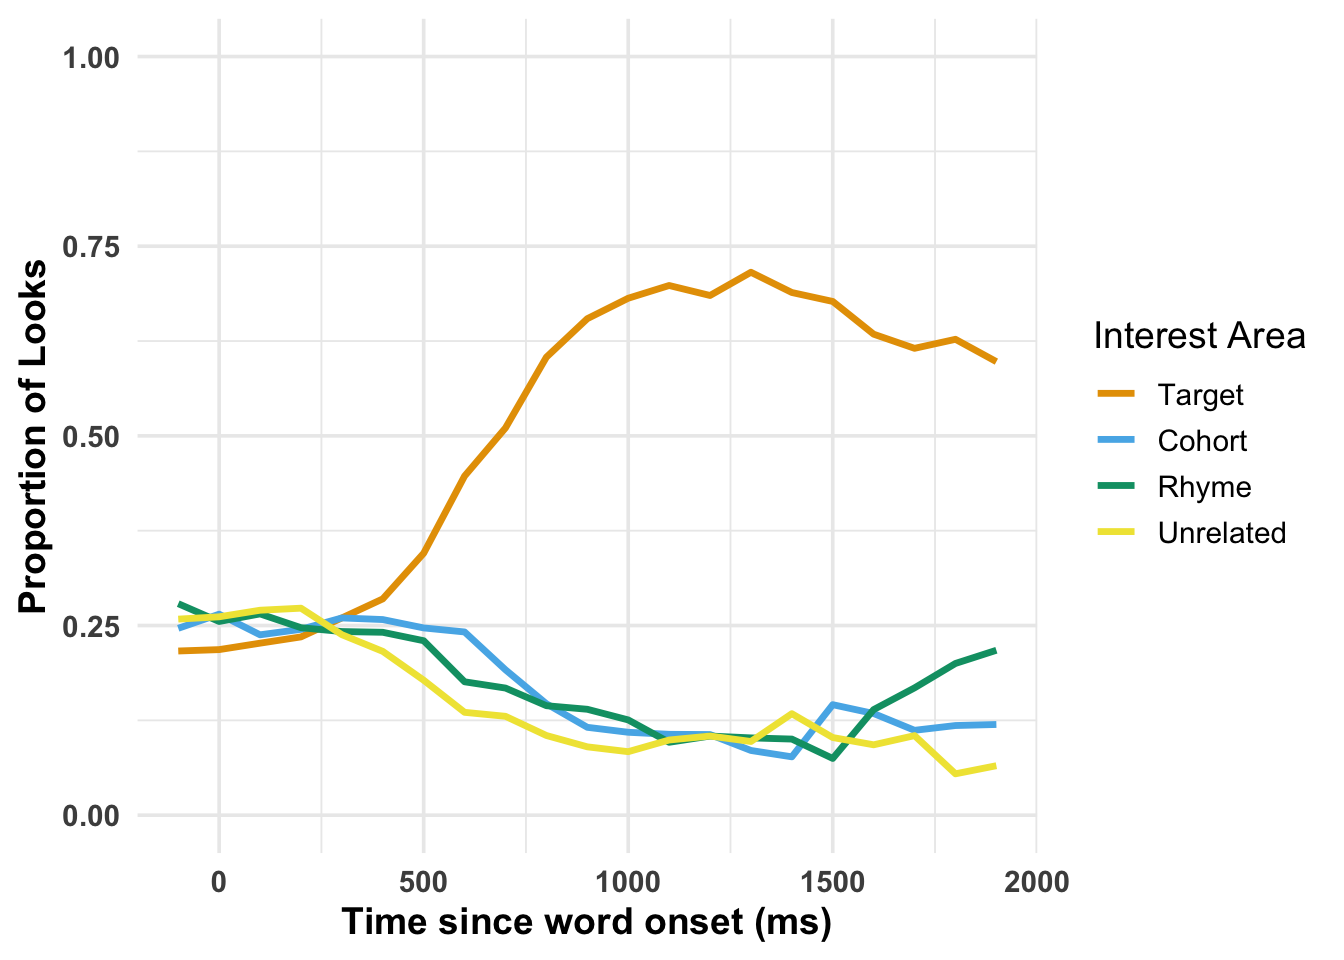
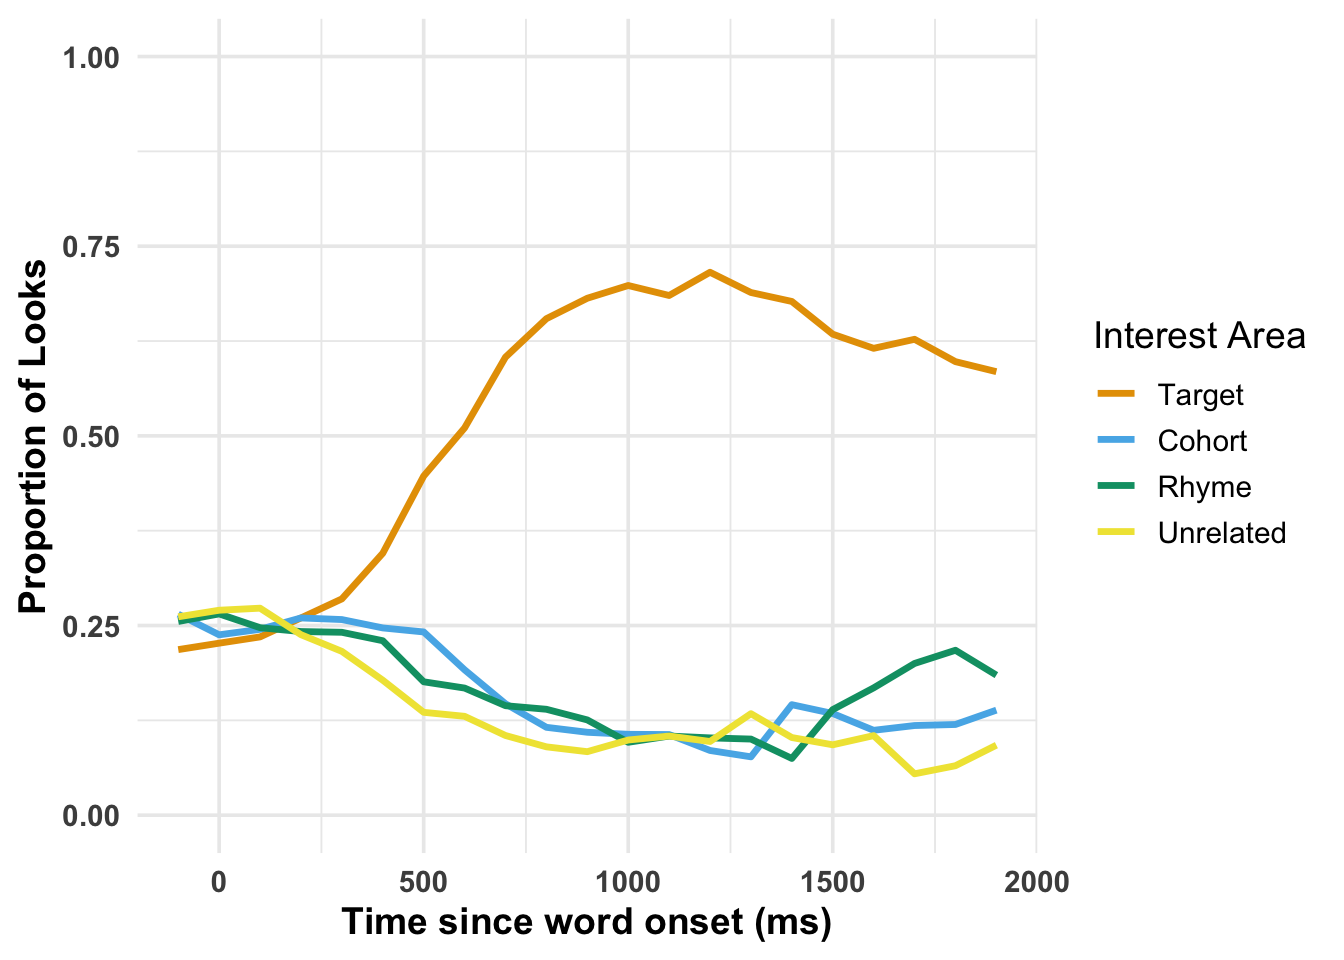
update vignette

Changed region(s): [[0.125, 0.2812, 0.75, 0.8125]]

diff --git a/docs/articles/webgazeR_vignette.html b/docs/articles/webgazeR_vignette.html
@@ -95,7 +95,7 @@
 <div class="cell-output cell-output-stdout">
 <pre><code>
 ── R CMD build ─────────────────────────────────────────────────────────────────
-* checking for file ‘/private/var/folders/b6/cndg9nj53jnfy45qtx6h533r0000gs/T/RtmpNNQGxJ/remotesfa23576f1e06/jgeller112-webgazeR-e226b07/DESCRIPTION’ ... OK
+* checking for file ‘/private/var/folders/b6/cndg9nj53jnfy45qtx6h533r0000gs/T/Rtmp4qiuZl/remotesfc251c656911/jgeller112-webgazeR-a1a1bb2/DESCRIPTION’ ... OK
 * preparing ‘webgazeR’:
 * checking DESCRIPTION meta-information ... OK
 * checking for LF line-endings in source and make files and shell scripts
@@ -665,8 +665,8 @@ Y: 2.75%</code></pre>
 
     <script>
 
-      function styleCell_hxguc1mj5v8z5sm3eym6(i, j, css_id) {
-          var table = document.getElementById("tinytable_hxguc1mj5v8z5sm3eym6");
+      function styleCell_o9oyqxhkhawl0vrqgxcf(i, j, css_id) {
+          var table = document.getElementById("tinytable_o9oyqxhkhawl0vrqgxcf");
           var cell = table.rows[i]?.cells[j];  // Safe navigation to avoid errors
           if (cell) {
               console.log(`Styling cell at (${i}, ${j}) with class ${css_id}`);
@@ -676,7 +676,7 @@ Y: 2.75%</code></pre>
           }
       }
       function insertSpanRow(i, colspan, content) {
-        var table = document.getElementById('tinytable_hxguc1mj5v8z5sm3eym6');
+        var table = document.getElementById('tinytable_o9oyqxhkhawl0vrqgxcf');
         var newRow = table.insertRow(i);
         var newCell = newRow.insertCell(0);
         newCell.setAttribute("colspan", colspan);
@@ -684,8 +684,8 @@ Y: 2.75%</code></pre>
         // this may be unsafe, but innerText does not interpret <br>
         newCell.innerHTML = content;
       }
-      function spanCell_hxguc1mj5v8z5sm3eym6(i, j, rowspan, colspan) {
-        var table = document.getElementById("tinytable_hxguc1mj5v8z5sm3eym6");
+      function spanCell_o9oyqxhkhawl0vrqgxcf(i, j, rowspan, colspan) {
+        var table = document.getElementById("tinytable_o9oyqxhkhawl0vrqgxcf");
         const targetRow = table.rows[i];
         const targetCell = targetRow.cells[j];
         for (let r = 0; r < rowspan; r++) {
@@ -715,24 +715,24 @@ Y: 2.75%</code></pre>
       window.addEventListener('load', function () {
           var cellsToStyle = [
             // tinytable style arrays after
-          { positions: [ { i: 23, j: 0 }, { i: 23, j: 1 }, { i: 23, j: 2 }, { i: 23, j: 3 }, { i: 23, j: 4 }, { i: 23, j: 5 }, { i: 23, j: 6 }, { i: 23, j: 7 },  ], css_id: 'tinytable_css_u843ks73rb2aqbb12ahd',},
-          { positions: [ { i: 0, j: 0 }, { i: 0, j: 1 }, { i: 0, j: 2 }, { i: 0, j: 3 }, { i: 0, j: 4 }, { i: 0, j: 5 }, { i: 0, j: 6 }, { i: 0, j: 7 },  ], css_id: 'tinytable_css_evfqxm4dk7hbx3lhx6fc',},
+          { positions: [ { i: 23, j: 0 }, { i: 23, j: 1 }, { i: 23, j: 2 }, { i: 23, j: 3 }, { i: 23, j: 4 }, { i: 23, j: 5 }, { i: 23, j: 6 }, { i: 23, j: 7 },  ], css_id: 'tinytable_css_vscp7bradl2ymf34kgfj',},
+          { positions: [ { i: 0, j: 0 }, { i: 0, j: 1 }, { i: 0, j: 2 }, { i: 0, j: 3 }, { i: 0, j: 4 }, { i: 0, j: 5 }, { i: 0, j: 6 }, { i: 0, j: 7 },  ], css_id: 'tinytable_css_4glqbr4juvcvcczxfd5w',},
           ];
 
           // Loop over the arrays to style the cells
           cellsToStyle.forEach(function (group) {
               group.positions.forEach(function (cell) {
-                  styleCell_hxguc1mj5v8z5sm3eym6(cell.i, cell.j, group.css_id);
+                  styleCell_o9oyqxhkhawl0vrqgxcf(cell.i, cell.j, group.css_id);
               });
           });
       });
     </script><style>
       /* tinytable css entries after */
-      .table td.tinytable_css_u843ks73rb2aqbb12ahd, .table th.tinytable_css_u843ks73rb2aqbb12ahd { border-bottom: solid #d3d8dc 0.1em; }
-      .table td.tinytable_css_evfqxm4dk7hbx3lhx6fc, .table th.tinytable_css_evfqxm4dk7hbx3lhx6fc { border-top: solid #d3d8dc 0.1em; border-bottom: solid #d3d8dc 0.05em; }
+      .table td.tinytable_css_vscp7bradl2ymf34kgfj, .table th.tinytable_css_vscp7bradl2ymf34kgfj { border-bottom: solid #d3d8dc 0.1em; }
+      .table td.tinytable_css_4glqbr4juvcvcczxfd5w, .table th.tinytable_css_4glqbr4juvcvcczxfd5w { border-top: solid #d3d8dc 0.1em; border-bottom: solid #d3d8dc 0.05em; }
     </style>
 <div class="container">
-      <table class="table table table-borderless" id="tinytable_hxguc1mj5v8z5sm3eym6" style="width: auto; margin-left: auto; margin-right: auto;" data-quarto-disable-processing="true">
+      <table class="table table table-borderless" id="tinytable_o9oyqxhkhawl0vrqgxcf" style="width: auto; margin-left: auto; margin-right: auto;" data-quarto-disable-processing="true">
 <thead><tr>
 <th scope="col">subject</th>
                 <th scope="col">total_points</th>
@@ -2710,7 +2710,7 @@ Y: 2.75%</code></pre>
 <div class="sourceCode cell-code" id="cb32"><pre class="downlit sourceCode r">
 <code class="sourceCode R"><span><span class="va">gaze_sub</span> <span class="op">&lt;-</span><span class="va">dat_long_aoi_me_TCRU</span><span class="op"><a href="https://magrittr.tidyverse.org/reference/pipe.html" class="external-link">%&gt;%</a></span> </span>
 <span><span class="fu"><a href="https://dplyr.tidyverse.org/reference/group_by.html" class="external-link">group_by</a></span><span class="op">(</span><span class="va">subject</span>, <span class="va">trial</span><span class="op">)</span> <span class="op"><a href="https://magrittr.tidyverse.org/reference/pipe.html" class="external-link">%&gt;%</a></span></span>
-<span>  <span class="fu"><a href="https://dplyr.tidyverse.org/reference/mutate.html" class="external-link">mutate</a></span><span class="op">(</span>time <span class="op">=</span> <span class="op">(</span><span class="va">time</span><span class="op">-</span><span class="va">RT_audio</span><span class="op">)</span><span class="op">-</span><span class="fl">200</span><span class="op">)</span> <span class="op"><a href="https://magrittr.tidyverse.org/reference/pipe.html" class="external-link">%&gt;%</a></span> <span class="co"># subtract audio rt onset for each</span></span>
+<span>  <span class="fu"><a href="https://dplyr.tidyverse.org/reference/mutate.html" class="external-link">mutate</a></span><span class="op">(</span>time <span class="op">=</span> <span class="op">(</span><span class="va">time</span><span class="op">-</span><span class="va">RT_audio</span><span class="op">)</span><span class="op">-</span><span class="fl">300</span><span class="op">)</span> <span class="op"><a href="https://magrittr.tidyverse.org/reference/pipe.html" class="external-link">%&gt;%</a></span> <span class="co"># subtract audio rt onset for each</span></span>
 <span> <span class="fu"><a href="https://dplyr.tidyverse.org/reference/filter.html" class="external-link">filter</a></span><span class="op">(</span><span class="va">time</span> <span class="op">&gt;=</span> <span class="op">-</span><span class="fl">100</span>, <span class="va">time</span> <span class="op">&lt;</span> <span class="fl">2000</span><span class="op">)</span> <span class="op"><a href="https://magrittr.tidyverse.org/reference/pipe.html" class="external-link">%&gt;%</a></span> <span class="co"># start -100 to 2000 ms </span></span>
 <span>   <span class="fu">dplyr</span><span class="fu">::</span><span class="fu"><a href="https://dplyr.tidyverse.org/reference/filter.html" class="external-link">filter</a></span><span class="op">(</span><span class="va">x_pred_normalised</span> <span class="op">&gt;</span> <span class="fl">0</span>,</span>
 <span>                <span class="va">x_pred_normalised</span> <span class="op">&lt;</span> <span class="fl">1</span>,</span>
@@ -2909,7 +2909,7 @@ Y: 2.75%</code></pre>
 <div class="sourceCode cell-code" id="cb42"><pre class="downlit sourceCode r">
 <code class="sourceCode R"><span><span class="va">gaze_sub</span> <span class="op">&lt;-</span><span class="va">dat_long_aoi_me_TCRU</span> <span class="op"><a href="https://magrittr.tidyverse.org/reference/pipe.html" class="external-link">%&gt;%</a></span> </span>
 <span><span class="fu"><a href="https://dplyr.tidyverse.org/reference/group_by.html" class="external-link">group_by</a></span><span class="op">(</span><span class="va">subject</span>, <span class="va">trial</span><span class="op">)</span> <span class="op"><a href="https://magrittr.tidyverse.org/reference/pipe.html" class="external-link">%&gt;%</a></span></span>
-<span>  <span class="fu"><a href="https://dplyr.tidyverse.org/reference/mutate.html" class="external-link">mutate</a></span><span class="op">(</span>time <span class="op">=</span> <span class="op">(</span><span class="va">time</span><span class="op">-</span><span class="va">RT_audio</span><span class="op">)</span><span class="op">-</span><span class="fl">200</span><span class="op">)</span> <span class="op"><a href="https://magrittr.tidyverse.org/reference/pipe.html" class="external-link">%&gt;%</a></span> <span class="co"># subtract audio rt onset for each</span></span>
+<span>  <span class="fu"><a href="https://dplyr.tidyverse.org/reference/mutate.html" class="external-link">mutate</a></span><span class="op">(</span>time <span class="op">=</span> <span class="op">(</span><span class="va">time</span><span class="op">-</span><span class="va">RT_audio</span><span class="op">)</span><span class="op">-</span><span class="fl">300</span><span class="op">)</span> <span class="op"><a href="https://magrittr.tidyverse.org/reference/pipe.html" class="external-link">%&gt;%</a></span> <span class="co"># subtract audio rt onset for each</span></span>
 <span> <span class="fu"><a href="https://dplyr.tidyverse.org/reference/filter.html" class="external-link">filter</a></span><span class="op">(</span><span class="va">time</span> <span class="op">&gt;=</span> <span class="fl">0</span>, <span class="va">time</span> <span class="op">&lt;</span> <span class="fl">2000</span><span class="op">)</span> <span class="op"><a href="https://magrittr.tidyverse.org/reference/pipe.html" class="external-link">%&gt;%</a></span> </span>
 <span>   <span class="fu">dplyr</span><span class="fu">::</span><span class="fu"><a href="https://dplyr.tidyverse.org/reference/filter.html" class="external-link">filter</a></span><span class="op">(</span><span class="va">x_pred_normalised</span> <span class="op">&gt;</span> <span class="fl">0</span>,</span>
 <span>                <span class="va">x_pred_normalised</span> <span class="op">&lt;</span> <span class="fl">1</span>,</span>
@@ -2930,9 +2930,13 @@ Y: 2.75%</code></pre>
 <span>                     proportion_column <span class="op">=</span> <span class="st">"Fix"</span>, </span>
 <span>                   ia_mapping <span class="op">=</span> <span class="fu"><a href="https://rdrr.io/r/base/list.html" class="external-link">list</a></span><span class="op">(</span>target <span class="op">=</span> <span class="st">"Target"</span>, cohort <span class="op">=</span> <span class="st">"Cohort"</span>, rhyme <span class="op">=</span> <span class="st">"Rhyme"</span>, unrelated <span class="op">=</span> <span class="st">"Unrelated"</span><span class="op">)</span><span class="op">)</span></span></code></pre></div>
 <div class="cell-output-display">
-<div>
-<figure><p><img src="webgazeR_vignette_files/figure-html/unnamed-chunk-44-1.png" width="672"></p>
-</figure>
+<div id="fig-gaze-gor" class="quarto-float quarto-figure quarto-figure-center" width="672">
+<figure class="quarto-float quarto-float-fig"><div aria-describedby="fig-gaze-gor-caption-0ceaefa1-69ba-4598-a22c-09a6ac19f8ca">
+<img src="webgazeR_vignette_files/figure-html/fig-gaze-gor-1.png" id="fig-gaze-gor" width="672">
+</div>
+<figcaption class="quarto-float-caption-bottom quarto-float-caption quarto-float-fig quarto-uncaptioned" id="fig-gaze-gor-caption-0ceaefa1-69ba-4598-a22c-09a6ac19f8ca">
+Figure 1
+</figcaption></figure>
 </div>
 </div>
 </div>
